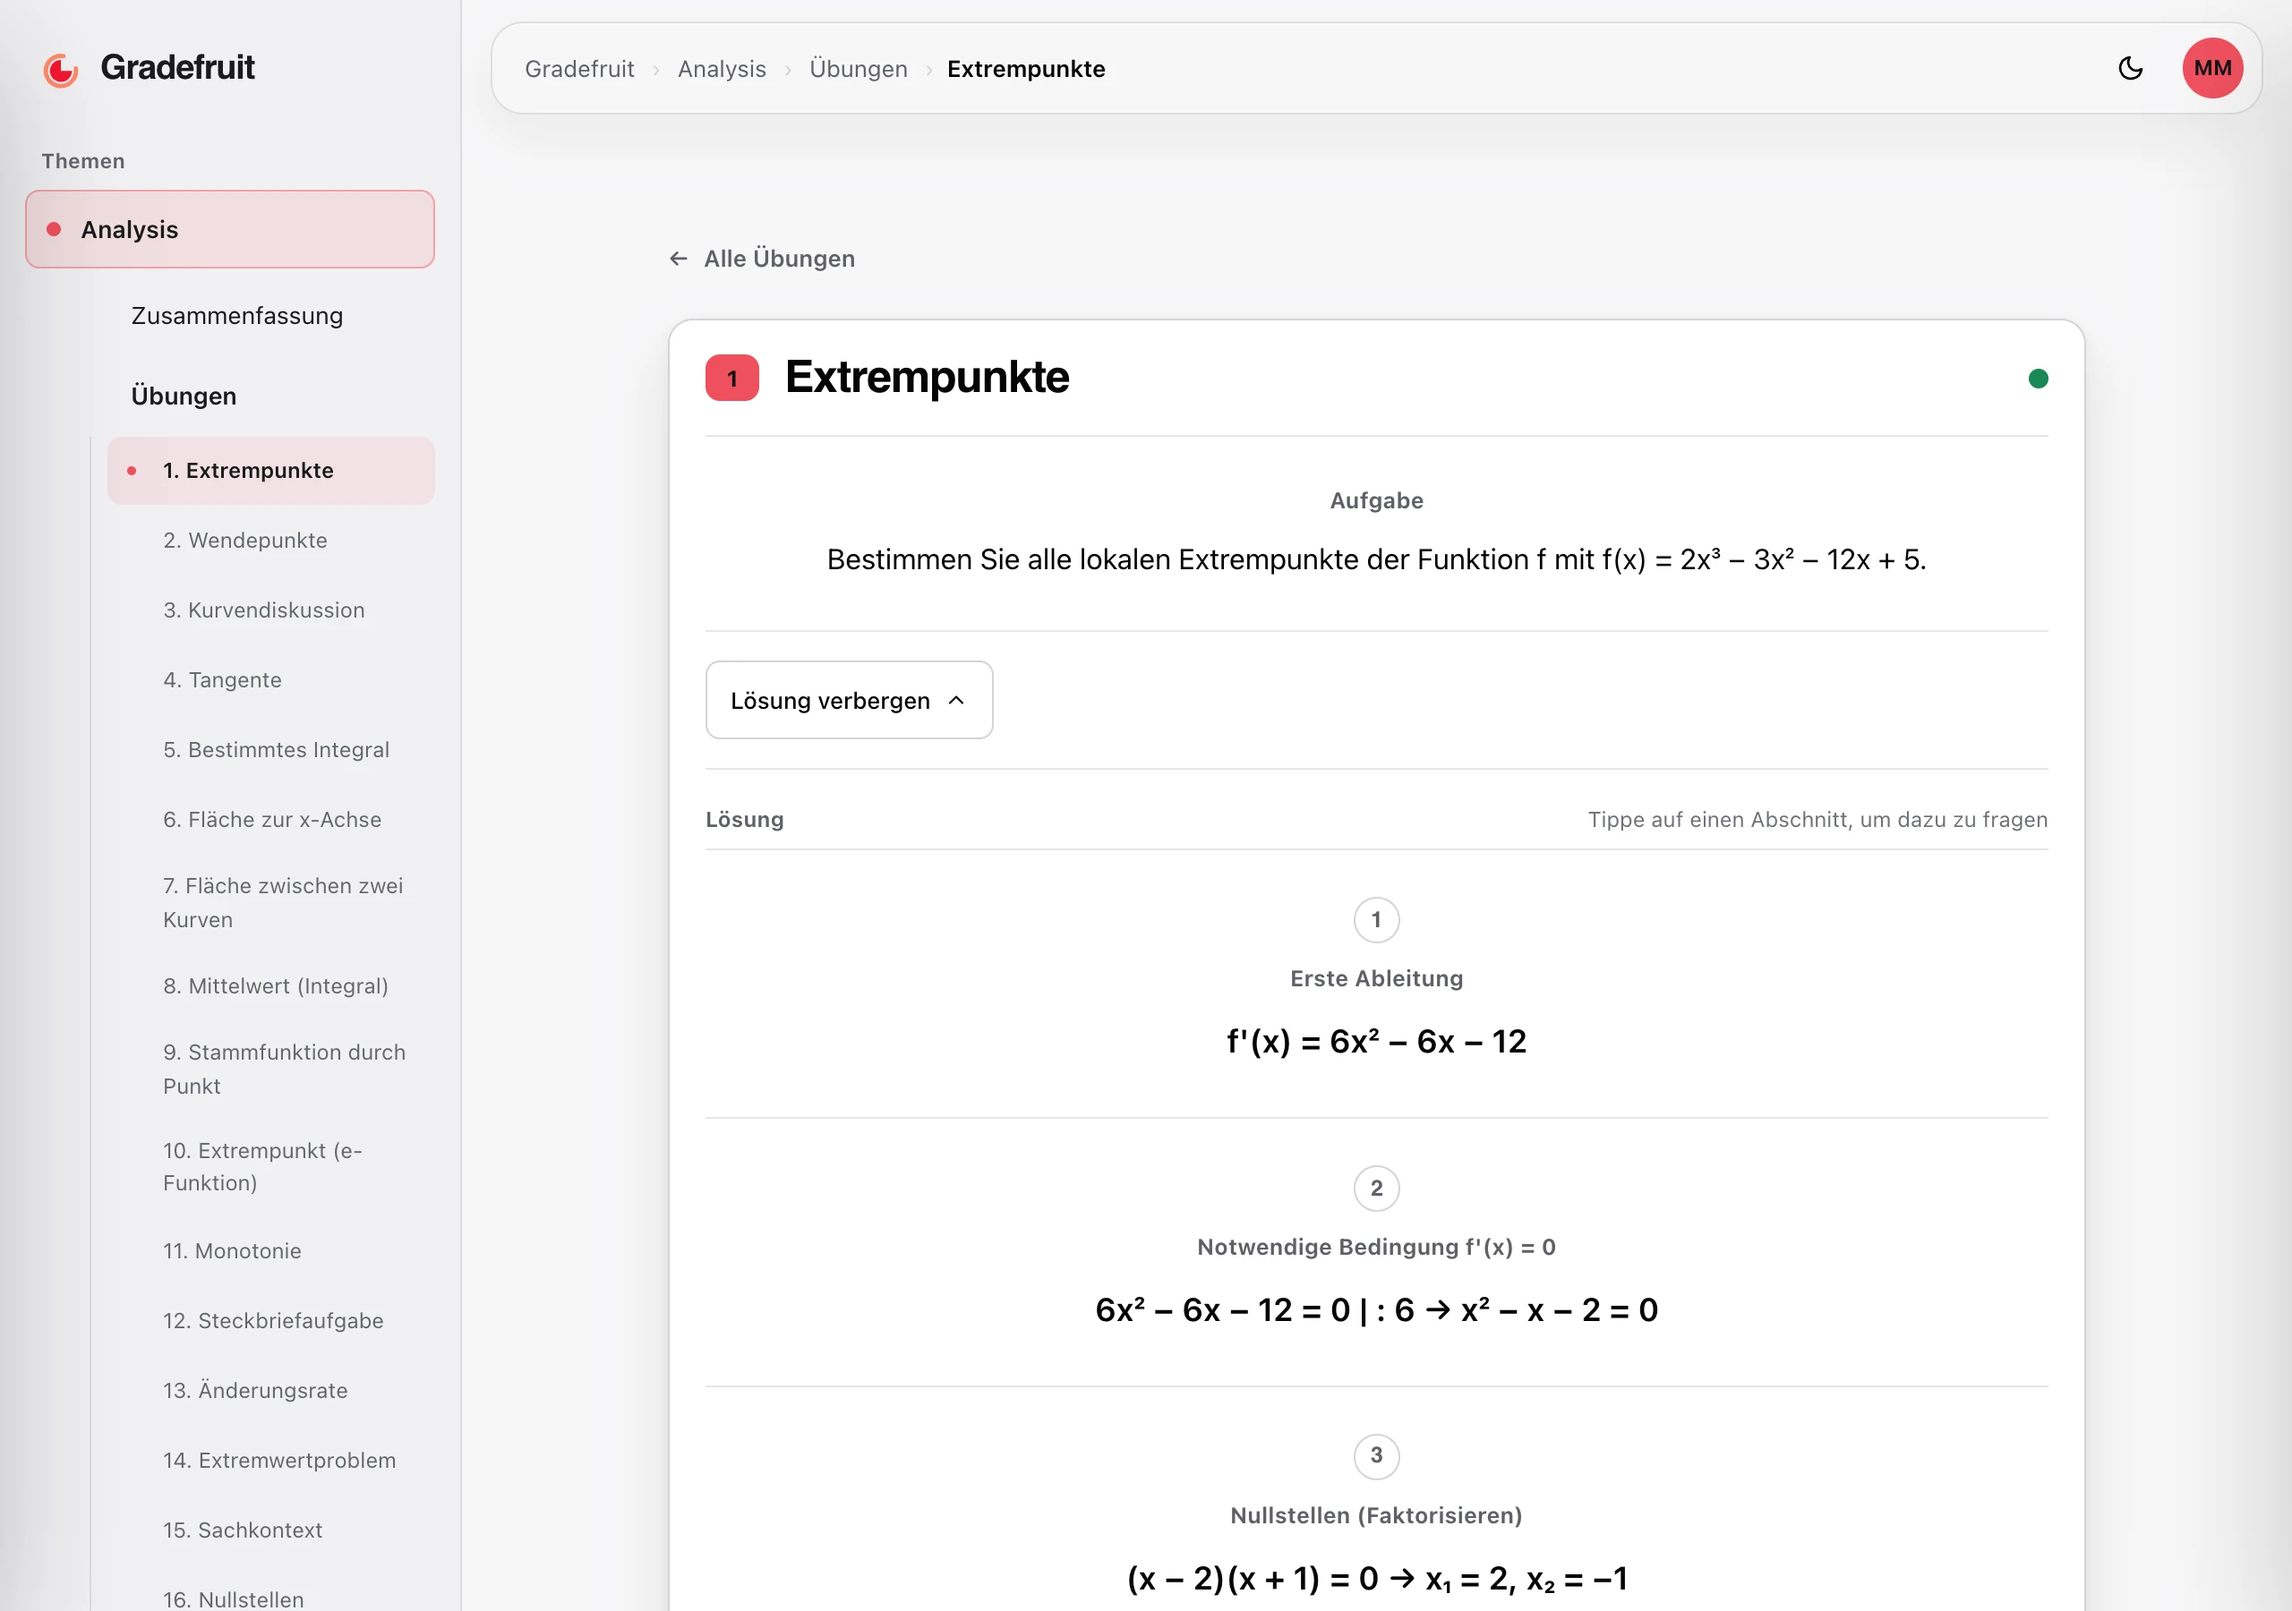
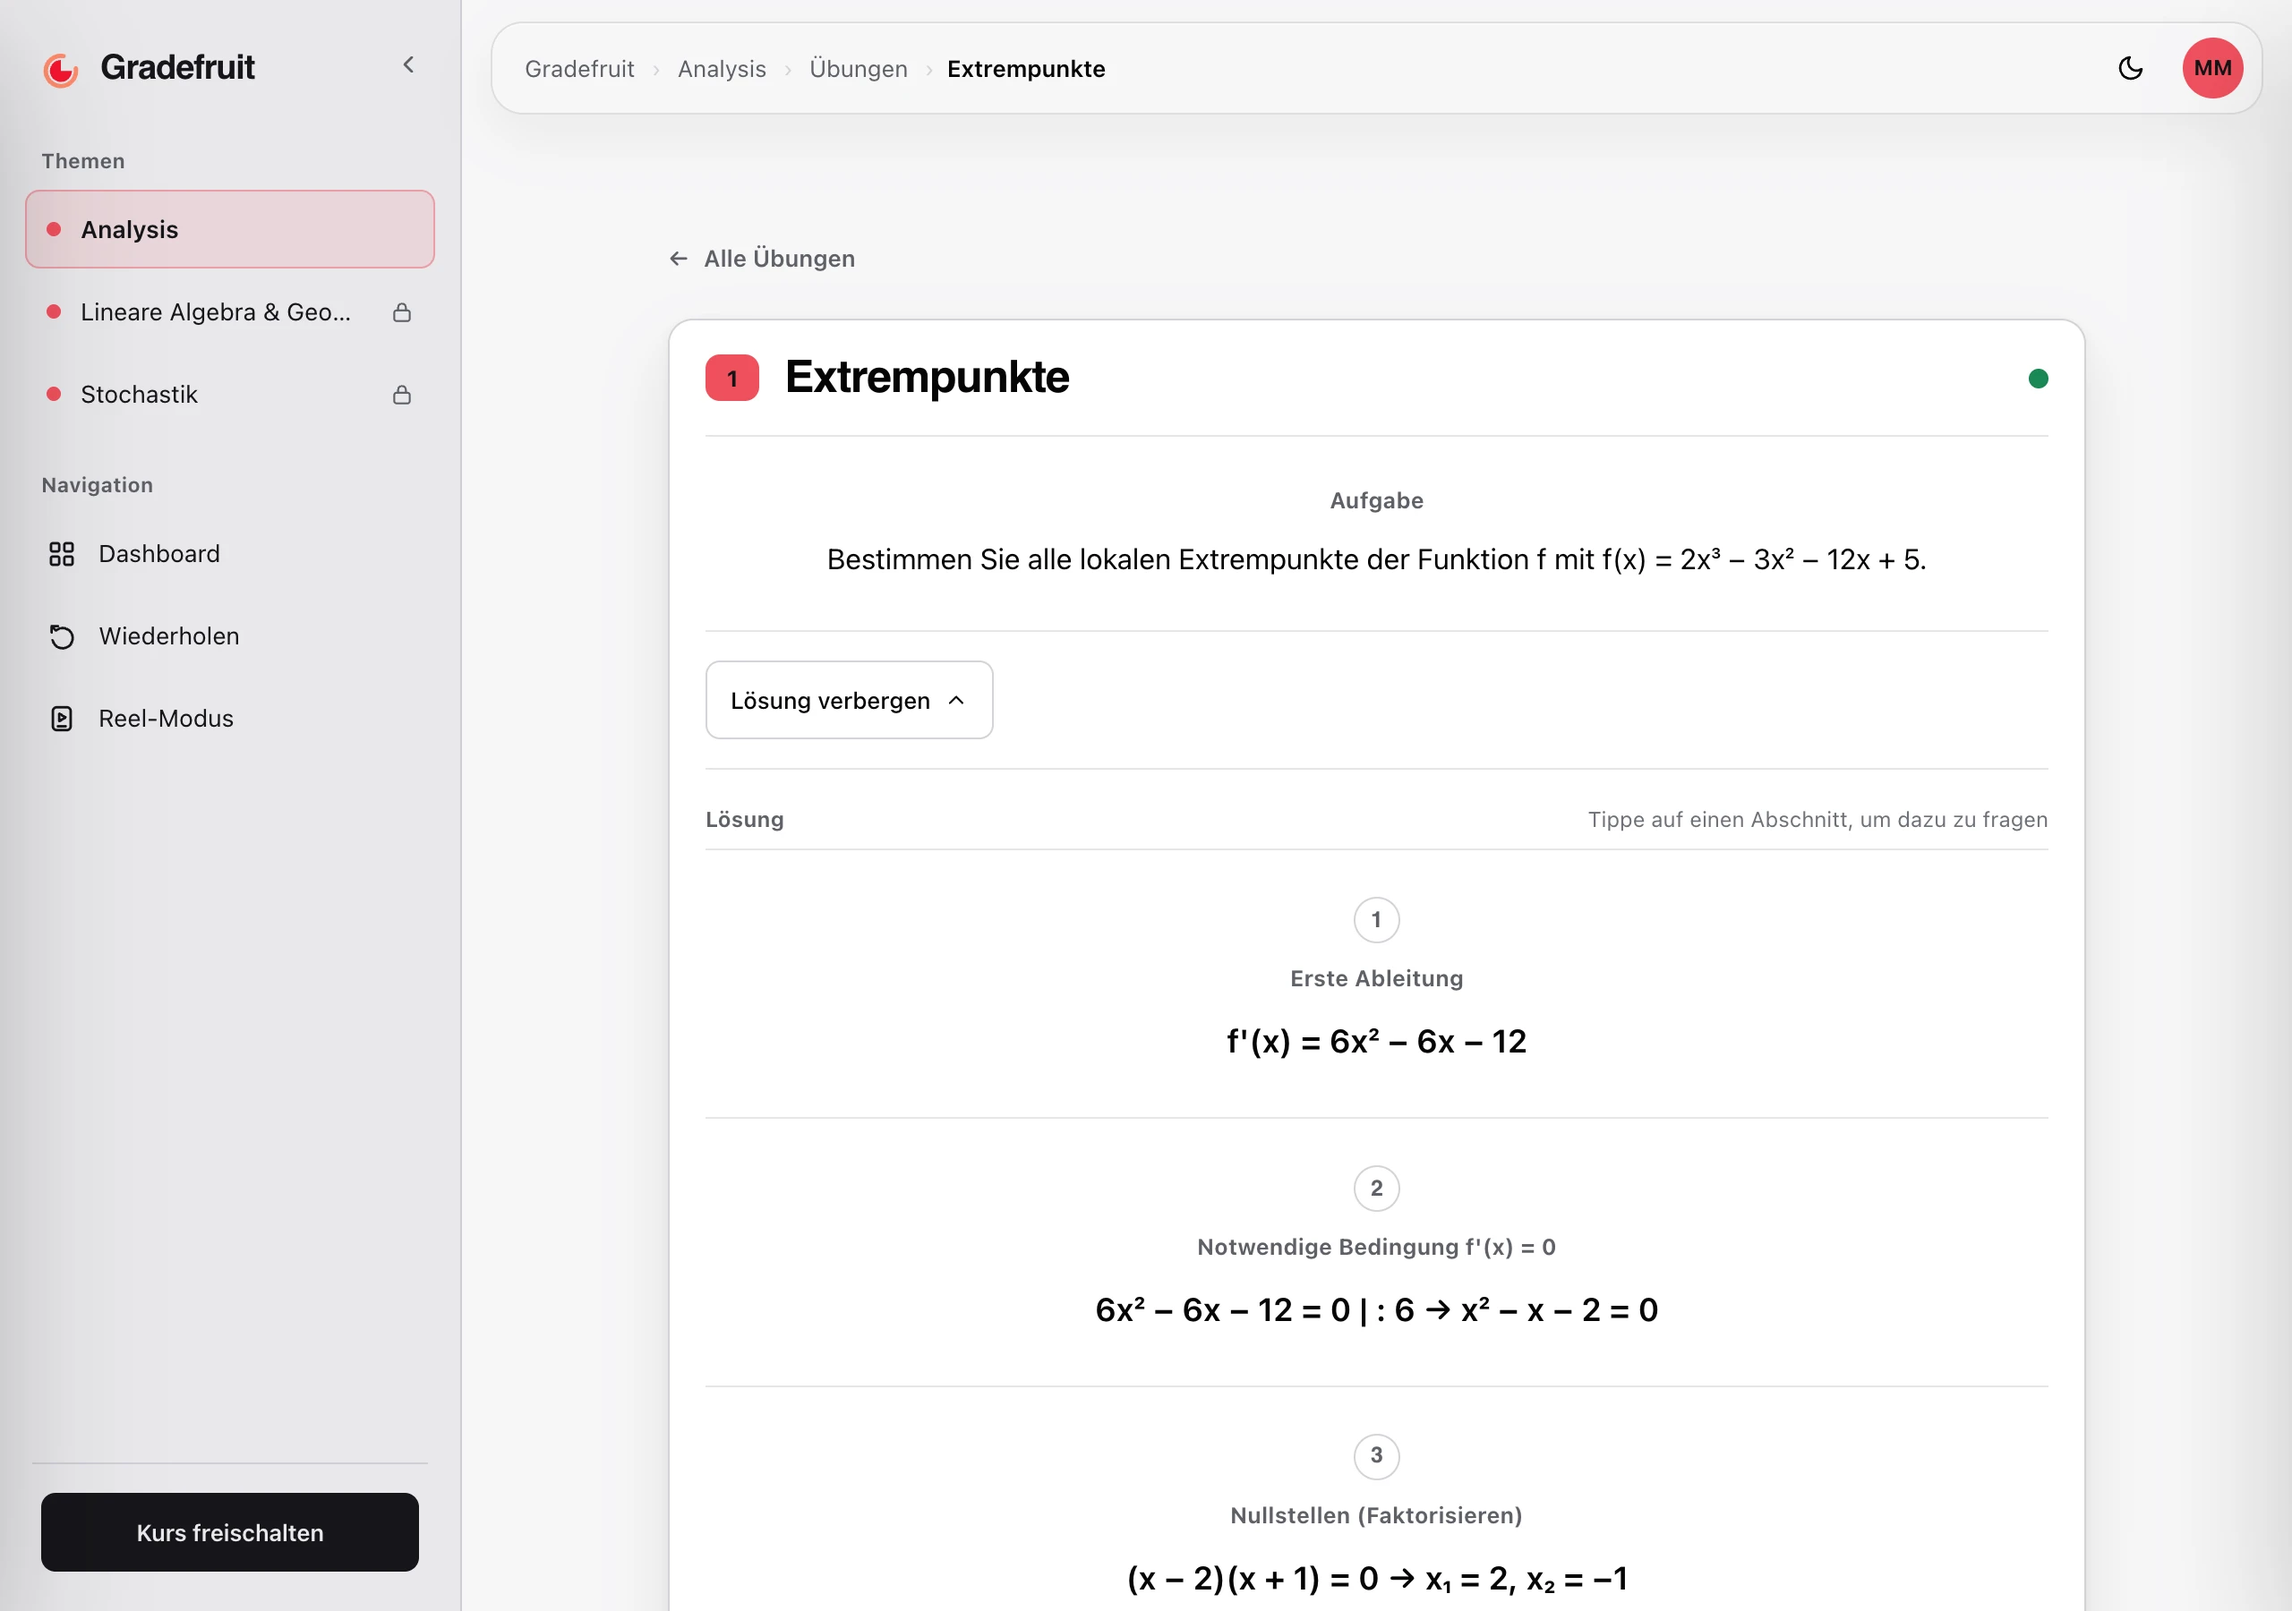
feat(bilder): drei Fotos, die zum Fach passen, und eine aufgeräumte Navigation
Bilder, nach längerer Suche und einigen Fehlgriffen:

- Startbereich bekommt eine fast weiße Rasterstruktur. Sie erinnert an
  Karopapier, drängt sich aber nicht vor; Marke und Knöpfe stehen ungestört
  darauf. Im dunklen Modus wird sie umgekehrt und stark gedämpft.
- Band nach dem Lernsystem: Laptop neben College-Block mit zwei Stiften.
  Genau die Mischung aus digital und handschriftlich, um die es geht, und
  der orange Stift liegt fast auf der Markenfarbe.
- Band vor dem Schluss: eine Hand, die auf kariertem Papier rechnet.

Verworfen wurden unter anderem zwei technisch starke Fotos mit Casio-Rechner
und echten Integralen: dunkel, unruhig, Gaming-Tastatur mit roter
Beleuchtung im Bild und vietnamesische Klausurbögen. Authentisch, aber auf
dieser Seite ein Fremdkörper. Ebenso mehrere iPad-Motive, die in Wahrheit
leere Geräte-Attrappen mit grauem Bildschirm sind.

Drei weitere Treffer waren Unsplash+ und damit kostenpflichtig; sie sind
nicht eingebaut. Urheber und Lizenz aller Bilder stehen im Bildnachweis.

Navigation im Arbeitsbereich: nur noch Dashboard, Wiederholen, Reel-Modus.
„1:1 Nachhilfe" ist raus, „Weitere Kurse" ebenfalls — beides gehörte nicht
in eine Liste von Orten.

Unten links steht genau ein Knopf, passend zum Kaufstand: kein Kurs →
freischalten; ein Kurs, aber es gibt noch einen → weitere Kurse; beide
gekauft → gar nichts, denn es gibt nichts mehr zu holen.

Die helle Seitenleiste ist etwas dunkler (#E8E8EB statt #F1F1F3), damit sie
[…]

diff --git a/src/components/Sidebar.tsx b/src/components/Sidebar.tsx
@@ -5,7 +5,7 @@ import { useProgress } from '@/lib/ProgressContext';
 import { indexFor } from '@/lib/contentIndex';
 import { useImAppRahmen } from '@/lib/nativeApp';
 import { BrandMark } from './BrandMark';
-import { CheckIcon, ChevronIcon, CoursesIcon, LockIcon, OverviewIcon, ReelIcon, ReviewIcon, TutorIcon } from './UiIcons';
+import { CheckIcon, ChevronIcon, CoursesIcon, LockIcon, OverviewIcon, ReelIcon, ReviewIcon } from './UiIcons';
 import styles from './Sidebar.module.css';
 
 interface Props {
@@ -32,10 +32,6 @@ const NAV_ITEMS: { id: View; label: string; icon: React.ReactNode }[] = [
   {
     id: 'review', label: 'Wiederholen',
     icon: <ReviewIcon />,
-  },
-  {
-    id: 'tutors', label: '1:1 Nachhilfe',
-    icon: <TutorIcon />,
   },
 ];
 
@@ -333,27 +329,31 @@ export default function Sidebar({ view, topicTab, topicItemId, owned, ownedLk, l
           </>
         )}
 
-        <button
-          className={view === 'kurse' ? styles.on : ''}
-          aria-current={view === 'kurse' ? 'page' : undefined}
-          onClick={() => onNavigate('kurse')}
-        >
-          <span className={styles.icon}><CoursesIcon /></span>
-          <span className={styles.ti}>Weitere Kurse</span>
-        </button>
       </nav>
 
       <div className={styles.spacer} />
 
-      {/* Nur der Knopf. Der Satz darüber erklärte, was die Kursseite ohnehin
-          ausführlich sagt, und machte die Ecke voll. */}
-      {!(owned || ownedLk) && !imApp && (
+      {/* Unten links genau ein Knopf, passend zum Kaufstand — und bewusst
+          UNTER der Navigation, nicht darin: Es ist kein Ort, an den man
+          navigiert, sondern eine Handlung.
+          Kein Kurs → freischalten. Ein Kurs, aber es gibt noch einen →
+          weitere Kurse. Beide gekauft → gar nichts, denn es gibt nichts
+          mehr zu holen. */}
+      {!imApp && (owned || ownedLk ? (
+        !(owned && ownedLk) && (
+          <div className={styles.unlockCard}>
+            <button className="btn sm" onClick={() => onNavigate('kurse')}>
+              Weitere Kurse
+            </button>
+          </div>
+        )
+      ) : (
         <div className={styles.unlockCard}>
           <button className="btn primary btn sm" onClick={onOpenCheckout}>
             Kurs freischalten
           </button>
         </div>
-      )}
+      ))}
     </aside>
   );
 }

diff --git a/src/components/LandingPage.tsx b/src/components/LandingPage.tsx
@@ -6,6 +6,7 @@ import { BrandMark } from './BrandMark';
 import SeitenKopf from './SeitenKopf';
 import SeitenFuss from './SeitenFuss';
 import ProduktBild from './ProduktBild';
+import Bildband from './Bildband';
 import { daysUntilExam } from '@/lib/exam';
 import { useSprache } from '@/lib/sprache';
 import { PREISE } from '@/lib/preise';
@@ -53,6 +54,9 @@ export default function LandingPage({ isAuthed, onEnter, onLogin, onRegister, on
 
       <main id="inhalt">
         <header className={styles.hero}>
+          {/* Fast weiße Rasterstruktur: erinnert an Karopapier, ohne sich
+              vorzudrängen. Marke und Knöpfe stehen darauf ungestört. */}
+          <img className={styles.heroGrund} src="/bild-raster.webp" alt="" aria-hidden="true" loading="eager" draggable={false} />
           <h1 className={styles.nurVorleser}>{t('start.titelVersteckt')}</h1>
           <div className={styles.heroMitte}>
             <BrandMark className={styles.heroMarke} size={92} />
@@ -102,6 +106,11 @@ export default function LandingPage({ isAuthed, onEnter, onLogin, onRegister, on
           <Link className={band.knopf} href="/lernsystem">{t('bandLernsystem.knopf')}</Link>
         </section>
 
+        <Bildband
+          datei="/bild-laptop.webp"
+          alt="Ein aufgeklappter Laptop neben einem College-Block mit zwei Stiften."
+        />
+
         <section className={`${band.band} ${band.bandTon}`}>
           <p className={band.name}>{t('bandKurse.name')}</p>
           <h2 className={band.titel}>{t('bandKurse.titel')}</h2>
@@ -117,6 +126,11 @@ export default function LandingPage({ isAuthed, onEnter, onLogin, onRegister, on
           <p className={band.zeile}>{t('bandUeberUns.zeile')}</p>
           <Link className={band.knopf} href="/ueber-uns">{t('bandUeberUns.knopf')}</Link>
         </section>
+
+        <Bildband
+          datei="/bild-karo.webp"
+          alt="Eine Hand schreibt mit einem Stift auf kariertem Papier."
+        />
 
         <section className={`${band.band} ${band.bandTon}`}>
           <h2 className={band.titel}>{t('bandSchluss.titel')}</h2>

diff --git a/src/components/Bildband.module.css b/src/components/Bildband.module.css
@@ -1,0 +1,24 @@
+/* Vollbreites Foto zwischen zwei Abschnitten. Feste Höhe, damit die Seite
+   beim Laden nicht springt. */
+.band {
+  width: 100%;
+  height: clamp(220px, 34vh, 380px);
+  overflow: hidden;
+  background: var(--surface-2);
+}
+.hoch { height: clamp(300px, 52vh, 560px); }
+
+.band img {
+  display: block;
+  width: 100%;
+  height: 100%;
+  object-fit: cover;
+  object-position: 50% 50%;
+  pointer-events: none;
+  -webkit-user-drag: none;
+  user-select: none;
+}
+
+/* Im dunklen Modus nimmt ein leichter Schleier die Härte aus hellen Fotos,
+   damit sie neben dunklen Flächen nicht leuchten. */
+:global(body.dark) .band img { filter: brightness(.76) saturate(.92); }

diff --git a/src/components/Bildband.tsx b/src/components/Bildband.tsx
@@ -1,0 +1,16 @@
+import styles from './Bildband.module.css';
+
+/**
+ * Ein Foto über die volle Breite zwischen zwei Abschnitten.
+ *
+ * Trägt keinen Text und keine Bedienelemente: Es gliedert die Seite und zeigt,
+ * worum es geht. Deshalb ist es für Vorleseprogramme beschrieben, aber nicht
+ * anklickbar — ein Bild, das nichts tut, soll auch nicht so aussehen.
+ */
+export default function Bildband({ datei, alt, hoch = false }: { datei: string; alt: string; hoch?: boolean }) {
+  return (
+    <div className={`${styles.band} ${hoch ? styles.hoch : ''}`}>
+      <img src={datei} alt={alt} loading="lazy" draggable={false} />
+    </div>
+  );
+}

diff --git a/src/app/globals.css b/src/app/globals.css
@@ -70,11 +70,11 @@
      zwei verschiedene Programme nebeneinander. Jetzt ist sie eine ruhige,
      leicht abgesetzte Fläche; der Unterschied kommt aus einem Hauch Grau und
      einer Haarlinie, nicht aus maximalem Kontrast. */
-  --side: #F1F1F3;
-  --side-2: #E9E9EC;
-  --side-3: #DCDCE0;
-  --side-tx: #1A1A1D;
-  --side-faint: #65666D;
+  --side: #E8E8EB;
+  --side-2: #DFDFE3;
+  --side-3: #CFCFD5;
+  --side-tx: #16161A;
+  --side-faint: #5E5F66;
   /* Milchglas für obere Leisten – als Variable, damit Dark Mode in
      CSS-Modulen zuverlässig greift (globale Klassen matchen dort nicht). */
   --glass: rgba(247, 247, 248, 0.82);

diff --git a/src/components/LandingPage.module.css b/src/components/LandingPage.module.css
@@ -159,3 +159,19 @@
   .heroMitte > *,
   .fakten > div { animation: none; }
 }
+
+/* Rasterstruktur hinter dem Startbereich. Sehr zurückhaltend: Sie soll an
+   Karopapier erinnern, nicht ins Auge springen. Im dunklen Modus wird sie
+   umgekehrt und stark gedämpft, sonst wäre sie eine helle Fläche. */
+.heroGrund {
+  position: absolute;
+  inset: 0;
+  z-index: -1;
+  width: 100%;
+  height: 100%;
+  object-fit: cover;
+  opacity: .9;
+  pointer-events: none;
+  user-select: none;
+}
+:global(body.dark) .heroGrund { filter: invert(1) brightness(.26); opacity: .5; }

diff --git a/src/components/ProduktBild.tsx b/src/components/ProduktBild.tsx
@@ -14,7 +14,7 @@ import styles from './ProduktBild.module.css';
  * Aufnahmen neu entstehen — Browser zeigen dann weiter die alte Fassung.
  * Nach jedem Lauf von `scripts/produktbilder.mjs` hier hochzählen.
  */
-const BILD_VERSION = '4';
+const BILD_VERSION = '5';
 
 export default function ProduktBild({
   name,

diff --git a/public/BILDNACHWEIS.md b/public/BILDNACHWEIS.md
@@ -3,6 +3,9 @@
 | Datei | Quelle | Urheber | Lizenz |
 |---|---|---|---|
 | `startbild.webp` | [Unsplash `mjPs0heWsek`](https://unsplash.com/photos/mjPs0heWsek) | H&CO | [Unsplash-Lizenz](https://unsplash.com/license) — kommerzielle Nutzung erlaubt, keine Namensnennung nötig |
+| `bild-raster.webp` | [Unsplash `oZ7BB-dB4gc`](https://unsplash.com/photos/oZ7BB-dB4gc) | Alexander Nedviga | [Unsplash-Lizenz](https://unsplash.com/license) |
+| `bild-laptop.webp` | [Unsplash `yW-Qgw_IJXg`](https://unsplash.com/photos/yW-Qgw_IJXg) | Maya Maceka | [Unsplash-Lizenz](https://unsplash.com/license) |
+| `bild-karo.webp` | [Unsplash `333oj7zFsdg`](https://unsplash.com/photos/333oj7zFsdg) | lilartsy | [Unsplash-Lizenz](https://unsplash.com/license) |
 | `hero-lernplatz.jpg`, `hero-lernplatz-dark.jpg` | Projektbestand | — | — |
 | `produkt/*.webp` | eigene Aufnahmen aus Gradefruit (`scripts/produktbilder.mjs`) | — | eigenes Werk |
 
